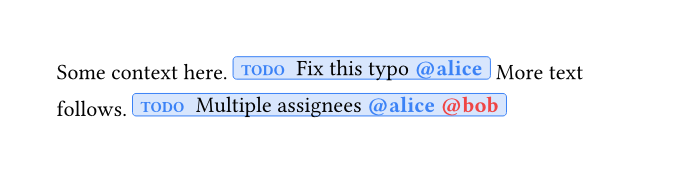
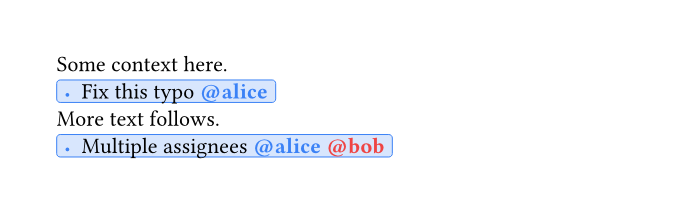
Symbol prefixes and block-level inline TODOs
* Replace `TODO` / `FIX` text prefixes with single-character symbols
  (`•` and `!`) so all three kinds share the same compact look as
  `ask`'s existing `?`.
* `render-inline` now wraps the box in a `block(...)` with tight
  vertical spacing, so an inline `#todo[…]` always lands on its own
  line instead of hiding at the end of a paragraph when it happens to
  fit. Snapshots refreshed; advanced example confirms.

Changed region(s): [[0.0618, 0.5202, 0.7721, 0.7514], [0.0618, 0.2601, 0.8647, 0.4913]]

diff --git a/README.md b/README.md
@@ -73,15 +73,15 @@ Colors stay consistent across the document: every occurrence of `@alice` is the 
 
 ## Types
 
-Three built-in types, each with its own color and label:
+Three built-in types, each with its own color and symbol:
 
-| Function | Label | Color | When to use |
+| Function | Symbol | Color | When to use |
 | --- | --- | --- | --- |
-| `#todo[...]` | TODO | blue | generic task |
-| `#fixme[...]` | FIX | red | known broken thing |
-| `#ask[...]` | ? | purple | open question awaiting an answer |
+| `#todo[...]` | `•` | blue | generic task |
+| `#fixme[...]` | `!` | red | known broken thing |
+| `#ask[...]` | `?` | purple | open question awaiting an answer |
 
-The type owns the box color; `@mentions` inside the body keep their own per-assignee colors. So `#fixme[Broken @alice]` renders as a red FIX box with `@alice` highlighted in alice's color.
+The type owns the box color; `@mentions` inside the body keep their own per-assignee colors. So `#fixme[Broken @alice]` renders as a red `!` box with `@alice` highlighted in alice's color.
 
 ## Configuration recipes
 
@@ -163,7 +163,7 @@ The callback receives a single `entry` dict with these fields:
 - `assignees` — array of handle strings
 - `color` — the resolved color for this annotation (kind color by default)
 - `kind` — `"todo"`, `"fixme"`, or `"ask"`
-- `prefix` — the label content (`[TODO]`, `[FIX]`, `[?]`)
+- `prefix` — the label content (`[•]`, `[!]`, `[?]`)
 - `done` — `true` if marked completed
 - `location` — the source location, useful for cross-references
 - `id` — a unique integer id assigned in document order